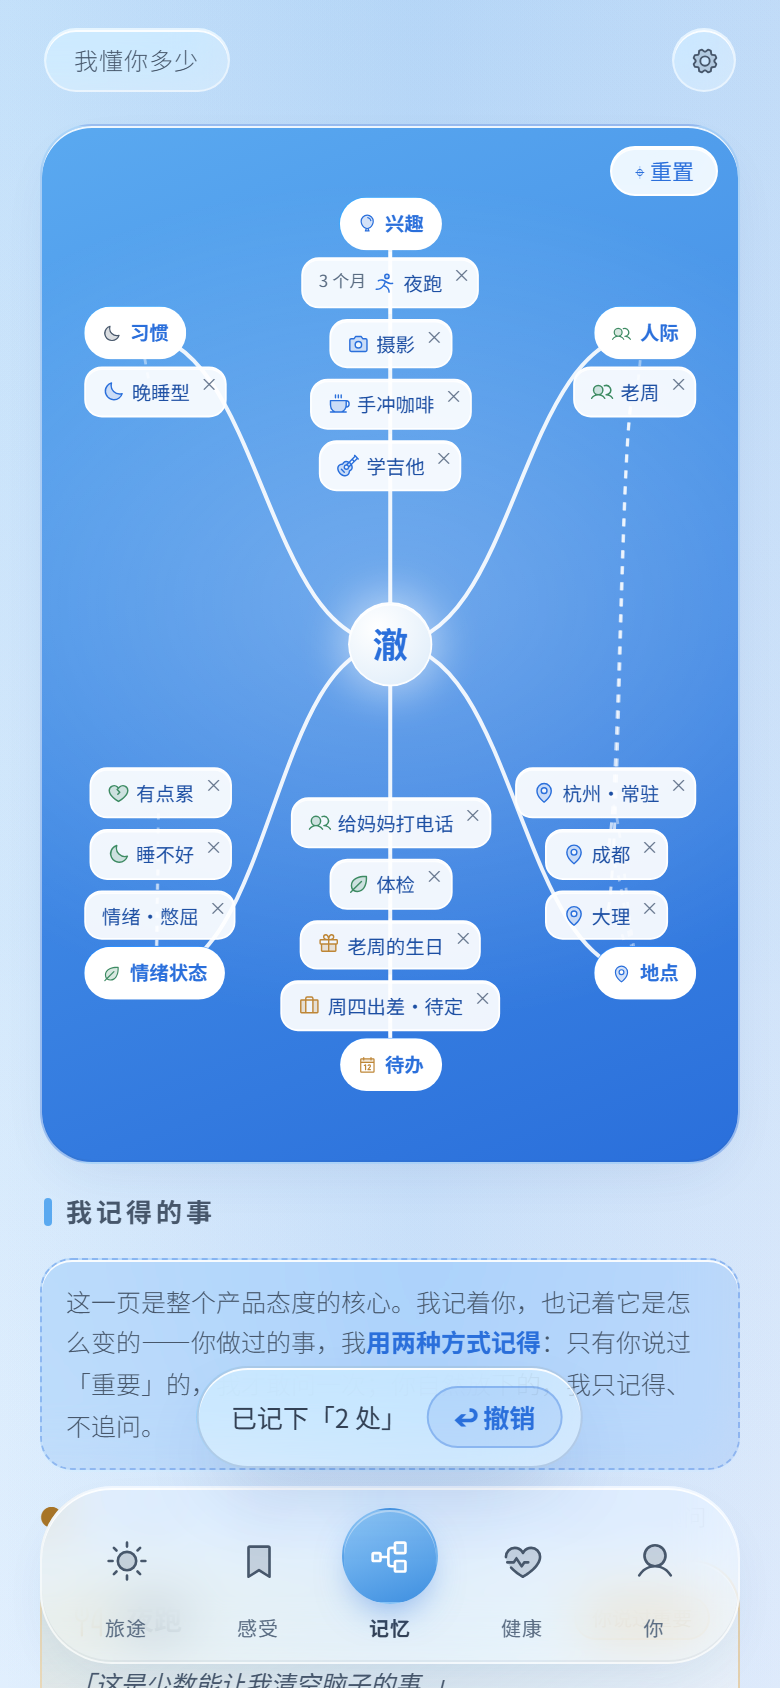
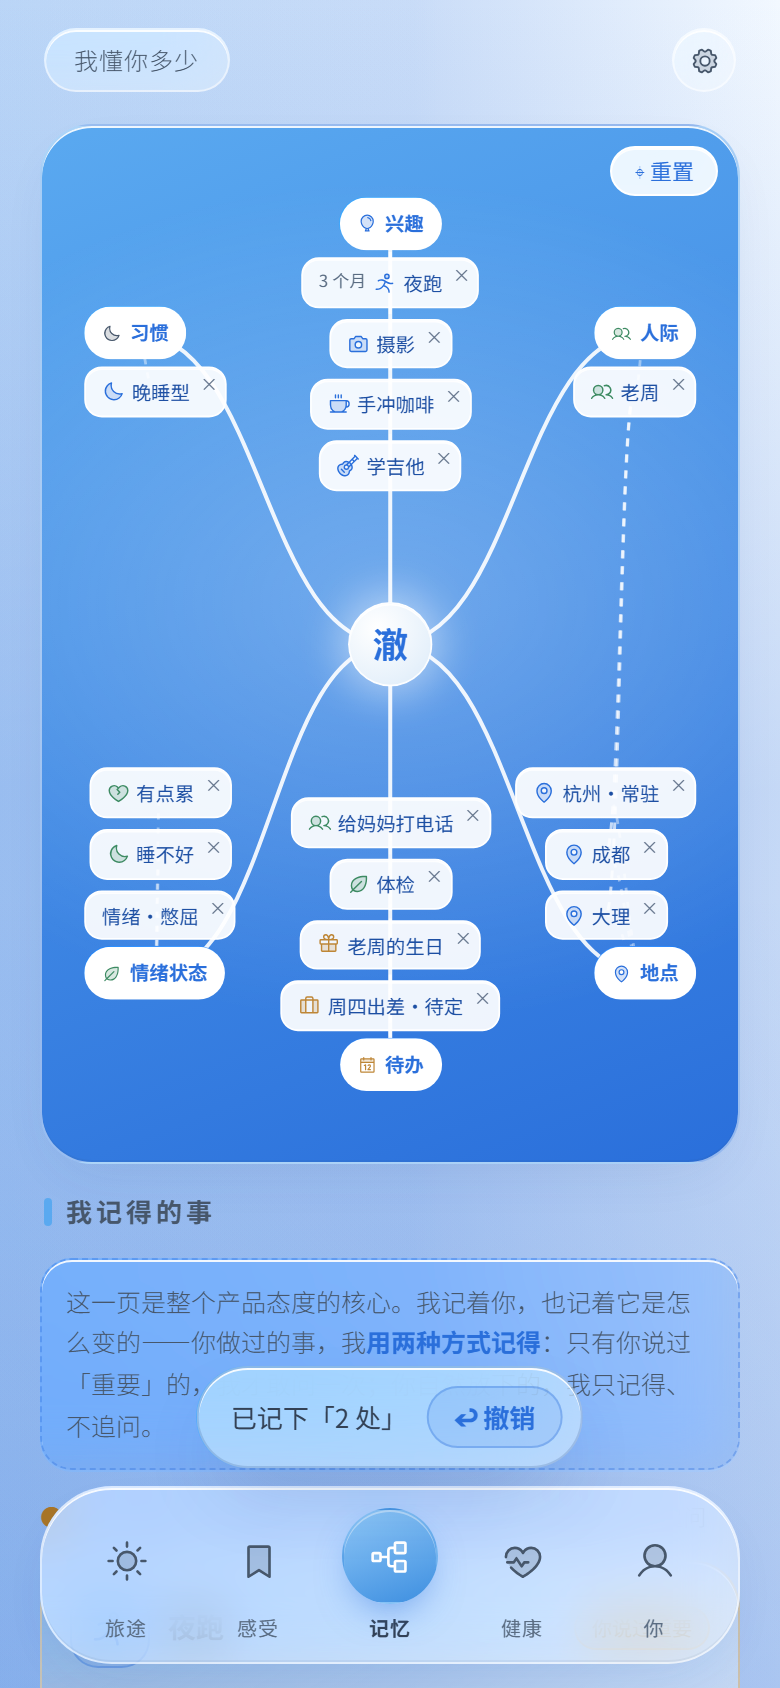
fix: 我记得的事图标 + 三处容器统一

diff --git a/prototype/index.html b/prototype/index.html
@@ -487,10 +487,7 @@
     display:flex;gap:11px;padding:13px 0;border-bottom:1px solid var(--line);
   }
   .obs:last-child{border-bottom:none;}
-  .obs .ico{font-size:18px;flex-shrink:0;width:34px;height:34px;border-radius:var(--r-icon);
-    background:var(--glass-bg-2);border:1px solid var(--glass-border);
-    display:flex;align-items:center;justify-content:center;
-    -webkit-backdrop-filter:var(--glass-blur);backdrop-filter:var(--glass-blur);}
+
   .obs .t{font-size:14px;}
   .obs .src{font-size:11.5px;color:var(--text-faint);margin-top:3px;}
 
@@ -548,8 +545,9 @@
   .mem.asked{background:linear-gradient(150deg,var(--amber-soft),var(--glass-bg));border-color:var(--amber-line);}
   .mem.released{background:linear-gradient(150deg,var(--blue-soft),var(--glass-bg));border-color:var(--blue-line);}
   .mem .head{display:flex;align-items:center;gap:9px;}
-  .mem .emoji{font-size:19px;}
-  .mem .nm{font-size:14px;font-weight:600;}
+/* v114：我记得的事 · 图标与观察卡/状态卡同一套尺寸 */
+  /* v114：三处图标容器统一（观察卡 / 状态卡 / 我记得的事）＝ 40px 蓝调方块 */
+  .obs .ico, #stateList .signal .ico,   .mem .nm{font-size:14px;font-weight:600;}
   .mem .badge{font-size:10px;padding:2px 8px;border-radius:999px;margin-left:auto;white-space:nowrap;}
   .mem.asked .badge{background:var(--amber-soft);color:var(--amber);border:1px solid var(--amber-line);}
   .mem.released .badge{background:var(--blue-soft);color:var(--blue);border:1px solid var(--blue-line);}
@@ -1726,15 +1724,7 @@
   .jar-freq i.sage{background:var(--sage);}
 
   /* 最近的状态：信号行（滑动删除已于 v51 按需求移除） */
-  /* v112：状态卡与观察卡的图标容器统一（34px 圆角方块 + 玻璃底） */
-  #stateList .signal .ico{
-    font-size:18px;flex-shrink:0;width:34px;height:34px;border-radius:var(--r-icon);
-    background:var(--glass-bg-2);border:1px solid var(--glass-border);
-    display:flex;align-items:center;justify-content:center;
-    -webkit-backdrop-filter:var(--glass-blur);backdrop-filter:var(--glass-blur);
-  }
-  #stateList .signal .ico .ic-ico{width:19px;height:19px;}
-  .obs .ico .ic-ico{width:19px;height:19px;}
+
   #stateList .signal{display:block;padding:0;position:relative;}
   #stateList .signal .sw-wrap{
     display:flex;align-items:center;gap:12px;padding:12px 0;
@@ -2172,6 +2162,24 @@
   .plus-txt{display:flex;flex-direction:column;line-height:1.3;}
   .plus-txt b{font-weight:500;}
   .plus-txt i{font-style:normal;font-size:10.5px;color:var(--text-faint);}
+
+  /* v114 · 三处图标容器统一（观察卡 / 状态卡 / 我记得的事）
+     后写覆盖前面零散定义：40px 蓝调方块 + 20px 图标 */
+  .obs .ico,
+  #stateList .signal .ico,
+  .mem .emoji{
+    width:40px !important;height:40px !important;
+    border-radius:var(--r-icon) !important;
+    display:flex !important;align-items:center !important;justify-content:center !important;
+    background:rgba(42,111,219,.12) !important;
+    border:1px solid rgba(42,111,219,.32) !important;
+    flex:none !important;
+    font-size:20px !important;
+  }
+  .obs .ico .ic-ico,
+  #stateList .signal .ico .ic-ico,
+  .mem .emoji .ic-ico{width:20px !important;height:20px !important;}
+
   /* v109 · 内联图标（Phosphor Duotone, MIT） */
   .ic-ico{display:inline-block;vertical-align:-0.16em;width:1em;height:1em;fill:currentColor;flex:none;}
   .c-blue{color:#2A6FDB;} .c-sage{color:#3E8B63;} .c-amber{color:#BE8636;} .c-ink{color:var(--text-dim);}
@@ -2915,7 +2923,7 @@
 
         <div class="mem asked" data-page-node-id="n3aAZUxZhbHfsDQtiiGdcS">
           <div class="head" data-page-node-id="0vlno0WbOhnFGntrSDxdc1">
-            <span class="emoji" data-page-node-id="kNbTBQV8L05R54NrD2dPkL"><svg class="ic-ico c-amber" viewBox="0 0 256 256" aria-hidden="true"><path d="M208,40V168H152S152,64,208,40Z" opacity="0.2"/><path d="M72,88V40a8,8,0,0,1,16,0V88a8,8,0,0,1-16,0ZM216,40V224a8,8,0,0,1-16,0V176H152a8,8,0,0,1-8-8,268.75,268.75,0,0,1,7.22-56.88c9.78-40.49,28.32-67.63,53.63-78.47A8,8,0,0,1,216,40ZM200,53.9c-32.17,24.57-38.47,84.42-39.7,106.1H200ZM119.89,38.69a8,8,0,1,0-15.78,2.63L112,88.63a32,32,0,0,1-64,0l7.88-47.31a8,8,0,1,0-15.78-2.63l-8,48A8.17,8.17,0,0,0,32,88a48.07,48.07,0,0,0,40,47.32V224a8,8,0,0,0,16,0V135.32A48.07,48.07,0,0,0,128,88a8.17,8.17,0,0,0-.11-1.31Z"/></svg></span><span class="nm" data-page-node-id="9Un84AgQuwQTxujppi7cif">夜跑</span>
+            <span class="emoji" data-page-node-id="kNbTBQV8L05R54NrD2dPkL"><svg class="ic-ico c-blue" viewBox="0 0 256 256" aria-hidden="true"><path d="M176,56a24,24,0,1,1-24-24A24,24,0,0,1,176,56Z" opacity="0.2"/><path d="M152,88a32,32,0,1,0-32-32A32,32,0,0,0,152,88Zm0-48a16,16,0,1,1-16,16A16,16,0,0,1,152,40Zm67.31,100.68c-.61.28-7.49,3.28-19.67,3.28-13.85,0-34.55-3.88-60.69-20a169.31,169.31,0,0,1-15.41,32.34,104.29,104.29,0,0,1,31.31,15.81C173.92,186.65,184,207.35,184,232a8,8,0,0,1-16,0c0-41.7-34.69-56.71-54.14-61.85-.55.7-1.12,1.41-1.69,2.1-19.64,23.8-44.25,36.18-71.63,36.18A92.29,92.29,0,0,1,31.2,208,8,8,0,0,1,32.8,192c25.92,2.59,48.47-7.49,67-30,12.49-15.14,21-33.61,25.25-47C86.13,92.34,61.27,111.63,61,111.84A8,8,0,1,1,51,99.36c1.5-1.2,37.22-29,89.51,6.57,45.47,30.91,71.93,20.31,72.18,20.19a8,8,0,1,1,6.63,14.56Z"/></svg></span><span class="nm" data-page-node-id="9Un84AgQuwQTxujppi7cif">夜跑</span>
             <span class="badge" data-page-node-id="YOFnNCMqCxGRulXkZed9lo">你说过重要</span>
           </div>
           <div class="quote" data-page-node-id="lzJyiF0pCDZXVBXP3JBUWy">「这是少数能让我清空脑子的事。」</div>
@@ -2927,7 +2935,7 @@
         </div>
         <div class="mem asked" data-page-node-id="JCDHn1MIrj92Pj9HoxLoSj">
           <div class="head" data-page-node-id="n1F9GeWjCKmpQPq6bXcCHx">
-            <span class="emoji" data-page-node-id="hxyEO4vDUbI5KrvfXknMt2"><svg class="ic-ico c-amber" viewBox="0 0 256 256" aria-hidden="true"><path d="M208,40V168H152S152,64,208,40Z" opacity="0.2"/><path d="M72,88V40a8,8,0,0,1,16,0V88a8,8,0,0,1-16,0ZM216,40V224a8,8,0,0,1-16,0V176H152a8,8,0,0,1-8-8,268.75,268.75,0,0,1,7.22-56.88c9.78-40.49,28.32-67.63,53.63-78.47A8,8,0,0,1,216,40ZM200,53.9c-32.17,24.57-38.47,84.42-39.7,106.1H200ZM119.89,38.69a8,8,0,1,0-15.78,2.63L112,88.63a32,32,0,0,1-64,0l7.88-47.31a8,8,0,1,0-15.78-2.63l-8,48A8.17,8.17,0,0,0,32,88a48.07,48.07,0,0,0,40,47.32V224a8,8,0,0,0,16,0V135.32A48.07,48.07,0,0,0,128,88a8.17,8.17,0,0,0-.11-1.31Z"/></svg></span><span class="nm" data-page-node-id="MMnCkzDKMM4VC38HiB1STU">学吉他</span>
+            <span class="emoji" data-page-node-id="hxyEO4vDUbI5KrvfXknMt2"><svg class="ic-ico c-blue" viewBox="0 0 256 256" aria-hidden="true"><path d="M155.2,100.8c-23-23-55.57-27.63-72.8-10.4a34.21,34.21,0,0,0-7.61,11.66,16.23,16.23,0,0,1-14.72,10C48,112.44,37,116.61,28.8,124.8,7.6,146,13.33,186.12,41.6,214.4s68.39,34,89.6,12.8C139.39,219,143.56,208,144,195.93a16.23,16.23,0,0,1,10-14.72,34.21,34.21,0,0,0,11.66-7.61C182.83,156.37,178.17,123.78,155.2,100.8ZM112,168a24,24,0,1,1,24-24A24,24,0,0,1,112,168Z" opacity="0.2"/><path d="M249.66,46.34l-40-40a8,8,0,0,0-11.31,11.32L200.69,20,140.52,80.16C117.73,68.3,92.21,69.29,76.75,84.74a42.27,42.27,0,0,0-9.39,14.37A8.24,8.24,0,0,1,59.81,104c-14.59.49-27.26,5.72-36.65,15.11C11.08,131.22,6,148.6,8.74,168.07,11.4,186.7,21.07,205.15,36,220s33.34,24.56,52,27.22A71.13,71.13,0,0,0,98.1,248c15.32,0,28.83-5.23,38.76-15.16,9.39-9.39,14.62-22.06,15.11-36.65a8.24,8.24,0,0,1,4.92-7.55,42.12,42.12,0,0,0,14.37-9.39c15.45-15.46,16.44-41,4.58-63.77L236,55.31l2.34,2.34a8,8,0,1,0,11.32-11.31ZM160,167.93a26.12,26.12,0,0,1-8.95,5.83,24.24,24.24,0,0,0-15,21.89c-.36,10.46-4,19.41-10.43,25.88-8.44,8.43-21,11.95-35.36,9.89C75,229.25,59.73,221.19,47.27,208.73S26.75,181,24.58,165.81c-2-14.37,1.46-26.92,9.89-35.36C40.94,124,49.89,120.37,60.35,120h0a24.22,24.22,0,0,0,21.89-15,26.12,26.12,0,0,1,5.83-9c5.49-5.49,13-8.13,21.38-8.13a49.38,49.38,0,0,1,19.13,4.19L108.5,112.19a32,32,0,1,0,35.31,35.31l20.08-20.08C170.41,142.71,169.47,158.41,160,167.93Zm-10.4-61.48a72.9,72.9,0,0,1,5.93,6.75l-15.42,15.42a32.22,32.22,0,0,0-12.68-12.68l15.42-15.43A73,73,0,0,1,149.55,106.45ZM112,128a16,16,0,0,1,16,16h0a16,16,0,1,1-16-16Zm48.85-32.85a86.94,86.94,0,0,0-6.68-6L176,67.31,188.69,80l-21.83,21.82A86.94,86.94,0,0,0,160.86,95.14ZM200,68.68,187.32,56,212,31.31,224.69,44ZM93.66,194.33a8,8,0,0,1-11.31,11.32l-32-32a8,8,0,0,1,11.32-11.31Z"/></svg></span><span class="nm" data-page-node-id="MMnCkzDKMM4VC38HiB1STU">学吉他</span>
             <span class="badge" data-page-node-id="PXdsNanTdSe3bXtSrEcZ6x">你说过重要</span>
           </div>
           <div class="quote" data-page-node-id="kOquQVTfr0i5lpgAaFBaiG">「想练到能弹一首完整的。」</div>
@@ -2951,7 +2959,7 @@
         </div>
         <div class="mem released" data-page-node-id="iQgtBq7qYY6FIoCqQnV2nD">
           <div class="head" data-page-node-id="mEaFVUGujZYBkXp15qDCaO">
-            <span class="emoji" data-page-node-id="VZD89Mkl1R3x2iDDy8Aj1q"><svg class="ic-ico c-blue" viewBox="0 0 256 256" aria-hidden="true"><path d="M208,64H176L160,40H96L80,64H48A16,16,0,0,0,32,80V192a16,16,0,0,0,16,16H208a16,16,0,0,0,16-16V80A16,16,0,0,0,208,64ZM128,168a36,36,0,1,1,36-36A36,36,0,0,1,128,168Z" opacity="0.2"/><path d="M208,56H180.28L166.65,35.56A8,8,0,0,0,160,32H96a8,8,0,0,0-6.65,3.56L75.71,56H48A24,24,0,0,0,24,80V192a24,24,0,0,0,24,24H208a24,24,0,0,0,24-24V80A24,24,0,0,0,208,56Zm8,136a8,8,0,0,1-8,8H48a8,8,0,0,1-8-8V80a8,8,0,0,1,8-8H80a8,8,0,0,0,6.66-3.56L100.28,48h55.43l13.63,20.44A8,8,0,0,0,176,72h32a8,8,0,0,1,8,8ZM128,88a44,44,0,1,0,44,44A44.05,44.05,0,0,0,128,88Zm0,72a28,28,0,1,1,28-28A28,28,0,0,1,128,160Z"/></svg></span><span class="nm" data-page-node-id="BD1Xvhmc7YTvCgYBzFeY72">法语课</span>
+            <span class="emoji" data-page-node-id="VZD89Mkl1R3x2iDDy8Aj1q"><svg class="ic-ico c-sage" viewBox="0 0 256 256" aria-hidden="true"><path d="M232,56V200H160a32,32,0,0,0-32,32,32,32,0,0,0-32-32H24V56H96a32,32,0,0,1,32,32,32,32,0,0,1,32-32Z" opacity="0.2"/><path d="M232,48H160a40,40,0,0,0-32,16A40,40,0,0,0,96,48H24a8,8,0,0,0-8,8V200a8,8,0,0,0,8,8H96a24,24,0,0,1,24,24,8,8,0,0,0,16,0,24,24,0,0,1,24-24h72a8,8,0,0,0,8-8V56A8,8,0,0,0,232,48ZM96,192H32V64H96a24,24,0,0,1,24,24V200A39.81,39.81,0,0,0,96,192Zm128,0H160a39.81,39.81,0,0,0-24,8V88a24,24,0,0,1,24-24h64Z"/></svg></span><span class="nm" data-page-node-id="BD1Xvhmc7YTvCgYBzFeY72">法语课</span>
             <span class="badge" data-page-node-id="6E6YwqD2FtyJcsNYFpEt15">自然放下了</span>
           </div>
           <div class="quote" data-page-node-id="v54gVj2donUks0Ak3XJh1j">只记得你去过，不提醒、不催促。</div>
